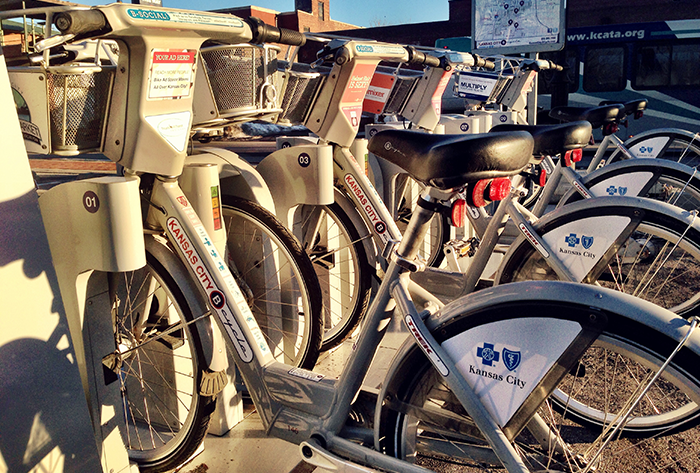
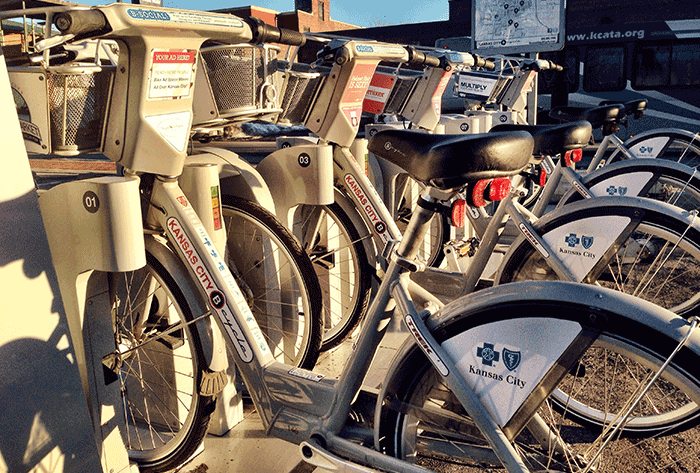
Adds disqus, removes redundant images, compresses images

diff --git a/_layouts/post.html b/_layouts/post.html
@@ -8,9 +8,24 @@ layout: default
 	{{ content }}
 
   <div>
-            <a href="https://flattr.com/submit/auto?user_id=rodrigodavies&url=http%3A%2F%2Fwww.rodrigodavies.com%2Fblog" target="_blank"><img src="//api.flattr.com/button/flattr-badge-large.png" alt="Flattr this" title="Flattr this" border="0" style="max-width:16%; border-radius:0; margin-top:-20px; float: right;"></a>  
-            </div>
-	</div>
+
+{% if page.comments %}
+  <div id="disqus_thread"></div>
+    <script type="text/javascript">
+        /* * * CONFIGURATION VARIABLES: EDIT BEFORE PASTING INTO YOUR WEBPAGE * * */
+        var disqus_shortname = 'rodrigodavies'; // required: replace example with your forum shortname
+
+        /* * * DON'T EDIT BELOW THIS LINE * * */
+        (function() {
+            var dsq = document.createElement('script'); dsq.type = 'text/javascript'; dsq.async = true;
+            dsq.src = '//' + disqus_shortname + '.disqus.com/embed.js';
+            (document.getElementsByTagName('head')[0] || document.getElementsByTagName('body')[0]).appendChild(dsq);
+        })();
+    </script>
+    <noscript>Please enable JavaScript to view the <a href="http://disqus.com/?ref_noscript">comments powered by Disqus.</a></noscript>
+    <a href="http://disqus.com" class="dsq-brlink">comments powered by <span class="logo-disqus">Disqus</span></a>
+    
+{% endif %}
 
         <div class="footer">
           <div id="page-navigation"> 
@@ -26,4 +41,5 @@ layout: default
                 <a href="{{ site.baseurl }}{{page.next.url}}" title="{{ site.baseurl }}{{page.next.title}}">Next Post: {{page.next.title}} &raquo; </a> 
              {% endif %} 
             </div> 
-          </div> 
+          </div> }
+}

diff --git a/index.html b/index.html
@@ -13,6 +13,24 @@ title: Rodrigo Davies
   		{{ content }}
 	</div>
 
+{% if post.comments %}
+  <div id="disqus_thread"></div>
+    <script type="text/javascript">
+        /* * * CONFIGURATION VARIABLES: EDIT BEFORE PASTING INTO YOUR WEBPAGE * * */
+        var disqus_shortname = 'rodrigodavies'; // required: replace example with your forum shortname
+
+        /* * * DON'T EDIT BELOW THIS LINE * * */
+        (function() {
+            var dsq = document.createElement('script'); dsq.type = 'text/javascript'; dsq.async = true;
+            dsq.src = '//' + disqus_shortname + '.disqus.com/embed.js';
+            (document.getElementsByTagName('head')[0] || document.getElementsByTagName('body')[0]).appendChild(dsq);
+        })();
+    </script>
+    <noscript>Please enable JavaScript to view the <a href="http://disqus.com/?ref_noscript">comments powered by Disqus.</a></noscript>
+    <a href="http://disqus.com" class="dsq-brlink">comments powered by <span class="logo-disqus">Disqus</span></a>
+    
+{% endif %}
+
         <div class="footer">
 <div class="pagination">
 		{% for post in site.posts limit:1 %}
